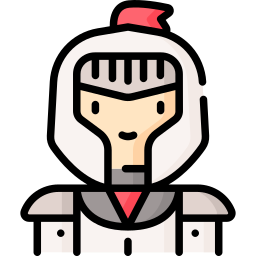
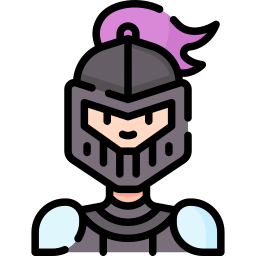
Integrate CodeEditor, add View Profile button, fix profile activity layout

diff --git a/src/assets/CSS/profilescreen.css b/src/assets/CSS/profilescreen.css
@@ -963,7 +963,7 @@
 }
 
 .skill-tag {
-  background-color: rgba(15, 52, 96, 0.7); /* MÃ u xanh tá»« theme */
+  background-color: rgba(15, 52, 96, 0.7); /* MÃ u xanh tá»« theme */
   border: 1px solid var(--primary-gold);
   color: var(--text-gold);
   padding: 5px 12px;
@@ -971,6 +971,55 @@
   font-size: 0.85rem;
   font-weight: 600;
   font-family: "Cinzel", serif;
+}
+
+/* Activity List Styling */
+.activity-list {
+  list-style: none;
+  padding: 0;
+  margin: 0;
+  display: flex;
+  flex-direction: column;
+  gap: 12px;
+}
+
+.activity-item {
+  display: flex;
+  justify-content: space-between;
+  align-items: center;
+  padding: 12px 0;
+  border-bottom: 1px solid rgba(212, 175, 55, 0.1);
+}
+
+.activity-item:last-child {
+  border-bottom: none;
+}
+
+.activity-info {
+  display: flex;
+  flex-direction: column;
+  gap: 4px;
+  flex: 1;
+}
+
+.activity-title {
+  color: var(--text-light);
+  font-weight: 600;
+  font-size: 0.95rem;
+}
+
+.activity-course {
+  color: var(--text-light);
+  opacity: 0.7;
+  font-size: 0.85rem;
+}
+
+.activity-xp {
+  color: var(--primary-gold);
+  font-weight: 700;
+  font-size: 0.95rem;
+  white-space: nowrap;
+  margin-left: 20px;
 }
 
 .profile-main-area {

diff --git a/src/pages/PvP/PvPBattle.jsx b/src/pages/PvP/PvPBattle.jsx
@@ -6,6 +6,7 @@ import { executeAndValidate } from '../../services/pistonCompiler';
 import { convertDbToPistonLanguage } from '../../utils/languageMapping';
 import SuccessNotification from '../../components/SuccessNotification';
 import AlertNotification from '../../components/AlertNotification';
+import CodeEditor from '../../components/CodeEditor';
 import '../../assets/CSS/pvpbattle.css';
 
 const BATTLE_DURATION = 300;
@@ -440,12 +441,12 @@ export default function PvPBattle() {
 
           {/* Code Editor Container */}
           <div className="code-editor-container" style={{ flex: `0 0 ${100 - outputPanelHeight}%` }}>
-            <textarea
-              className="code-editor"
-              value={code}
-              onChange={(e) => setCode(e.target.value)}
-              placeholder="Write your code here..."
+            <CodeEditor
+              code={code}
+              onChange={setCode}
+              language={language}
               disabled={submitted}
+              onSave={handleRunCode}
             />
           </div>
 

diff --git a/src/assets/CSS/pvplobby.css b/src/assets/CSS/pvplobby.css
@@ -553,6 +553,30 @@
   transform: scale(1.05);
 }
 
+/* View Profile Button - Matching MainMenu Styling */
+.view-profile-btn {
+  width: 100%;
+  padding: 0.5rem 0.8rem;
+  background: linear-gradient(135deg, #d4af37, #00d4ff);
+  color: #0f0f1e;
+  border: none;
+  border-radius: 6px;
+  font-weight: 600;
+  cursor: pointer;
+  transition: all 0.3s ease;
+  font-size: 0.8rem;
+  margin-top: 12px;
+}
+
+.view-profile-btn:hover {
+  transform: translateY(-2px);
+  box-shadow: 0 8px 20px rgba(212, 175, 55, 0.4);
+}
+
+.view-profile-btn:active {
+  transform: translateY(0);
+}
+
 
 
 

diff --git a/src/pages/PvP/PvPLobby.jsx b/src/pages/PvP/PvPLobby.jsx
@@ -441,6 +441,12 @@ export default function PvPLobby() {
               >
                 {isSearching ? 'Cancel Search' : 'Find Match'}
               </button>
+              <button
+                className="view-profile-btn"
+                onClick={() => navigate('/profile')}
+              >
+                View Profile
+              </button>
             </div>
           </div>
         </div>
